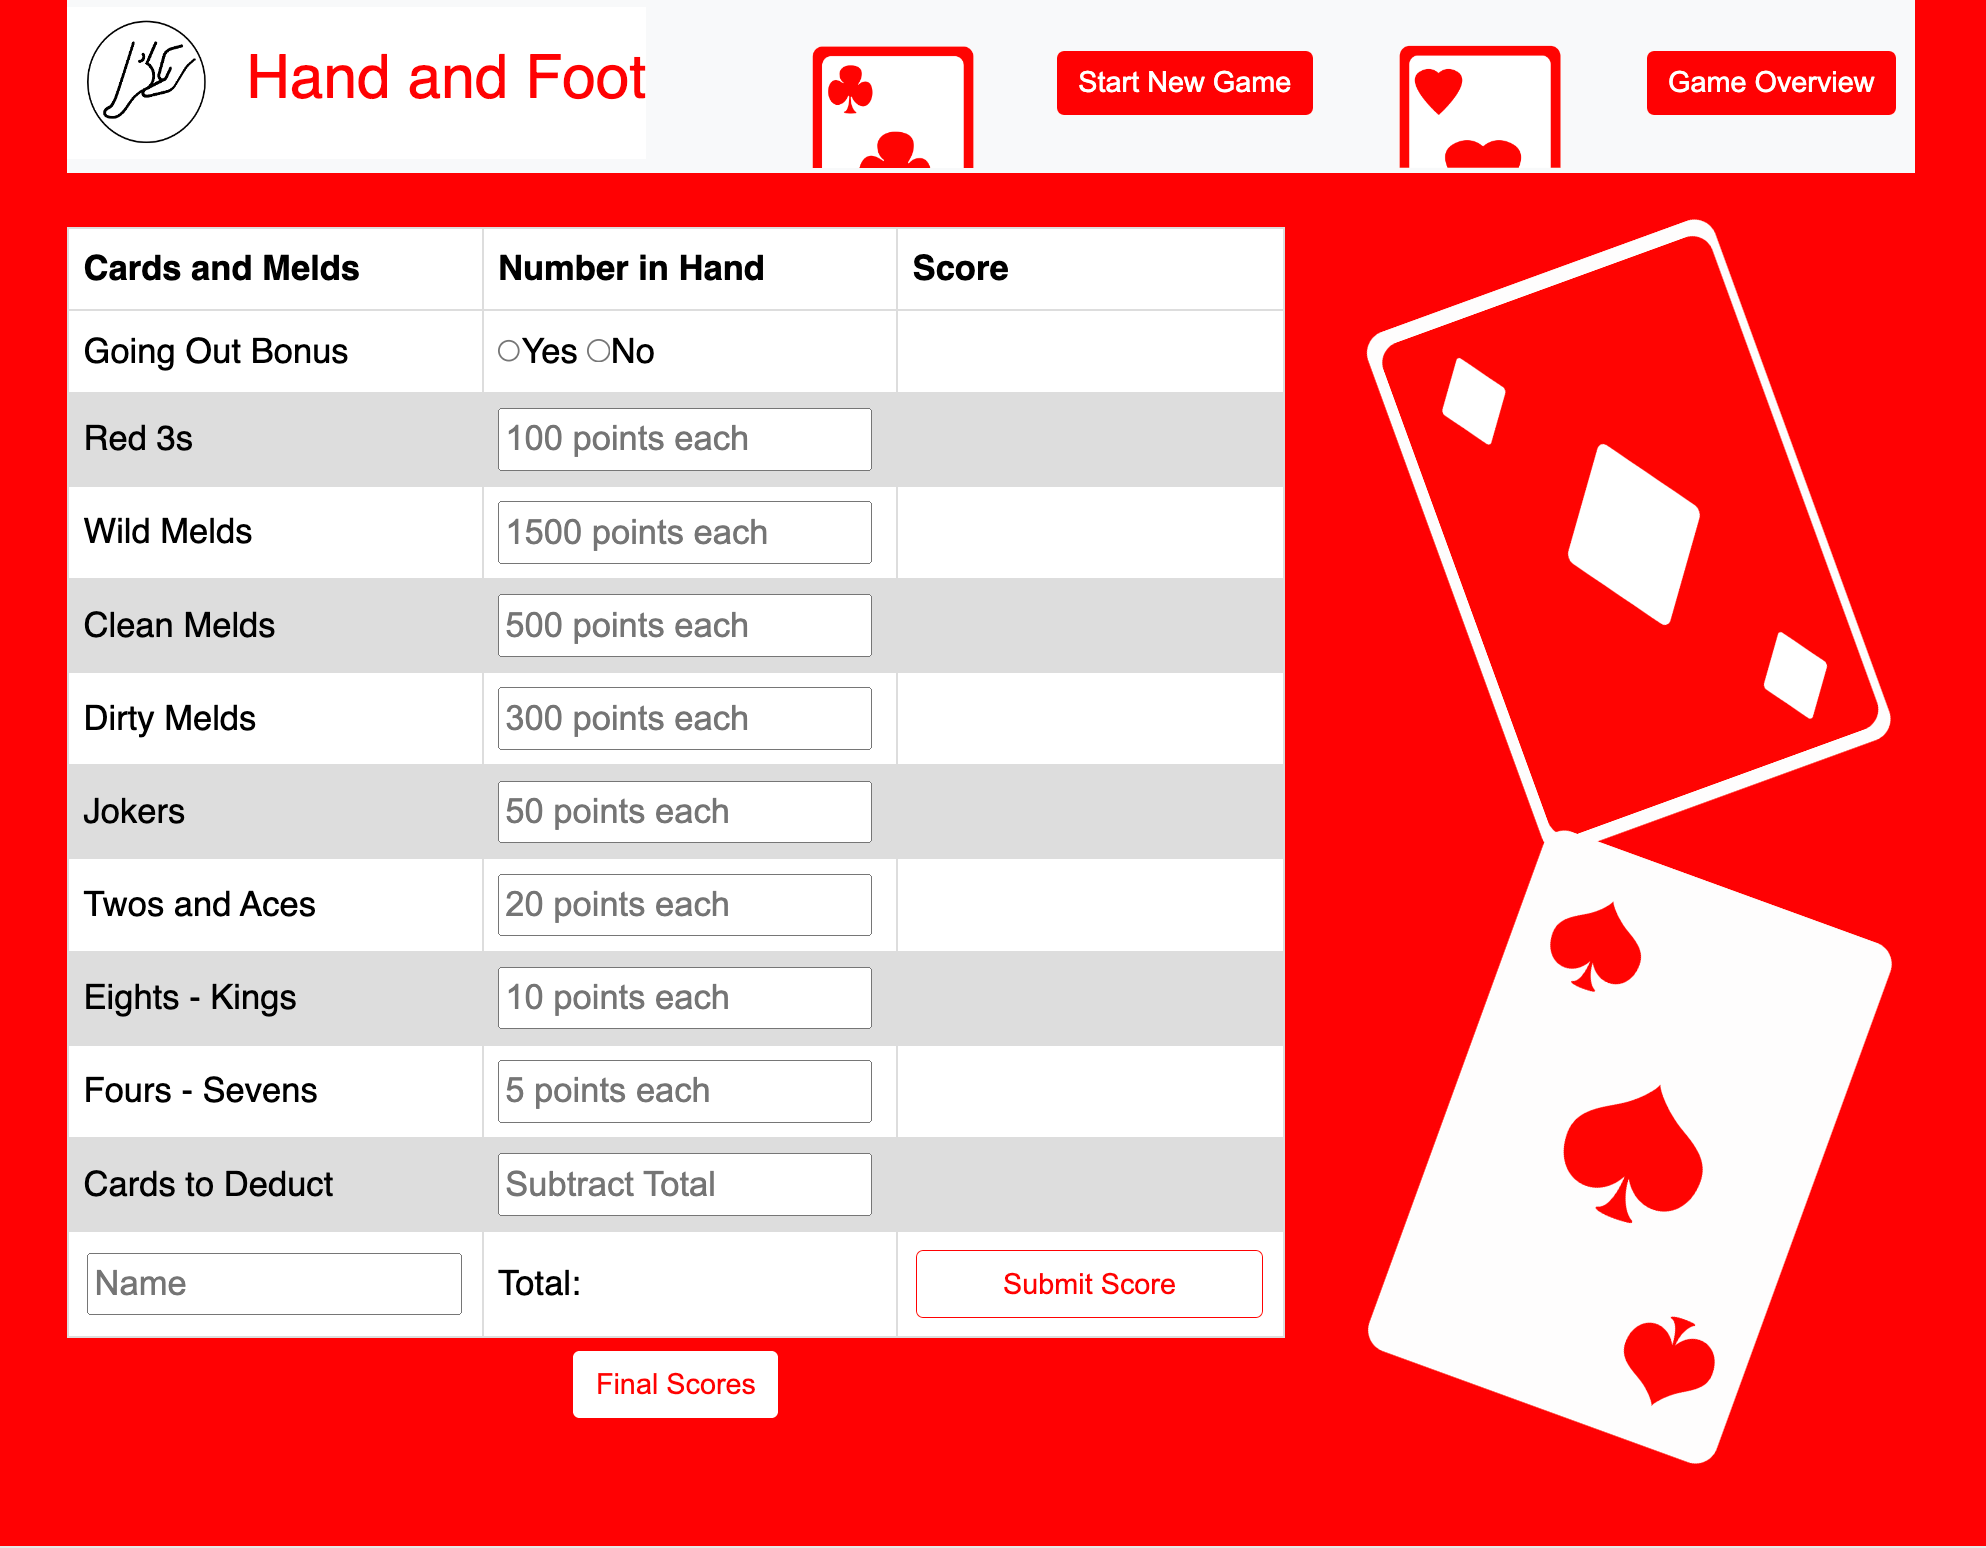
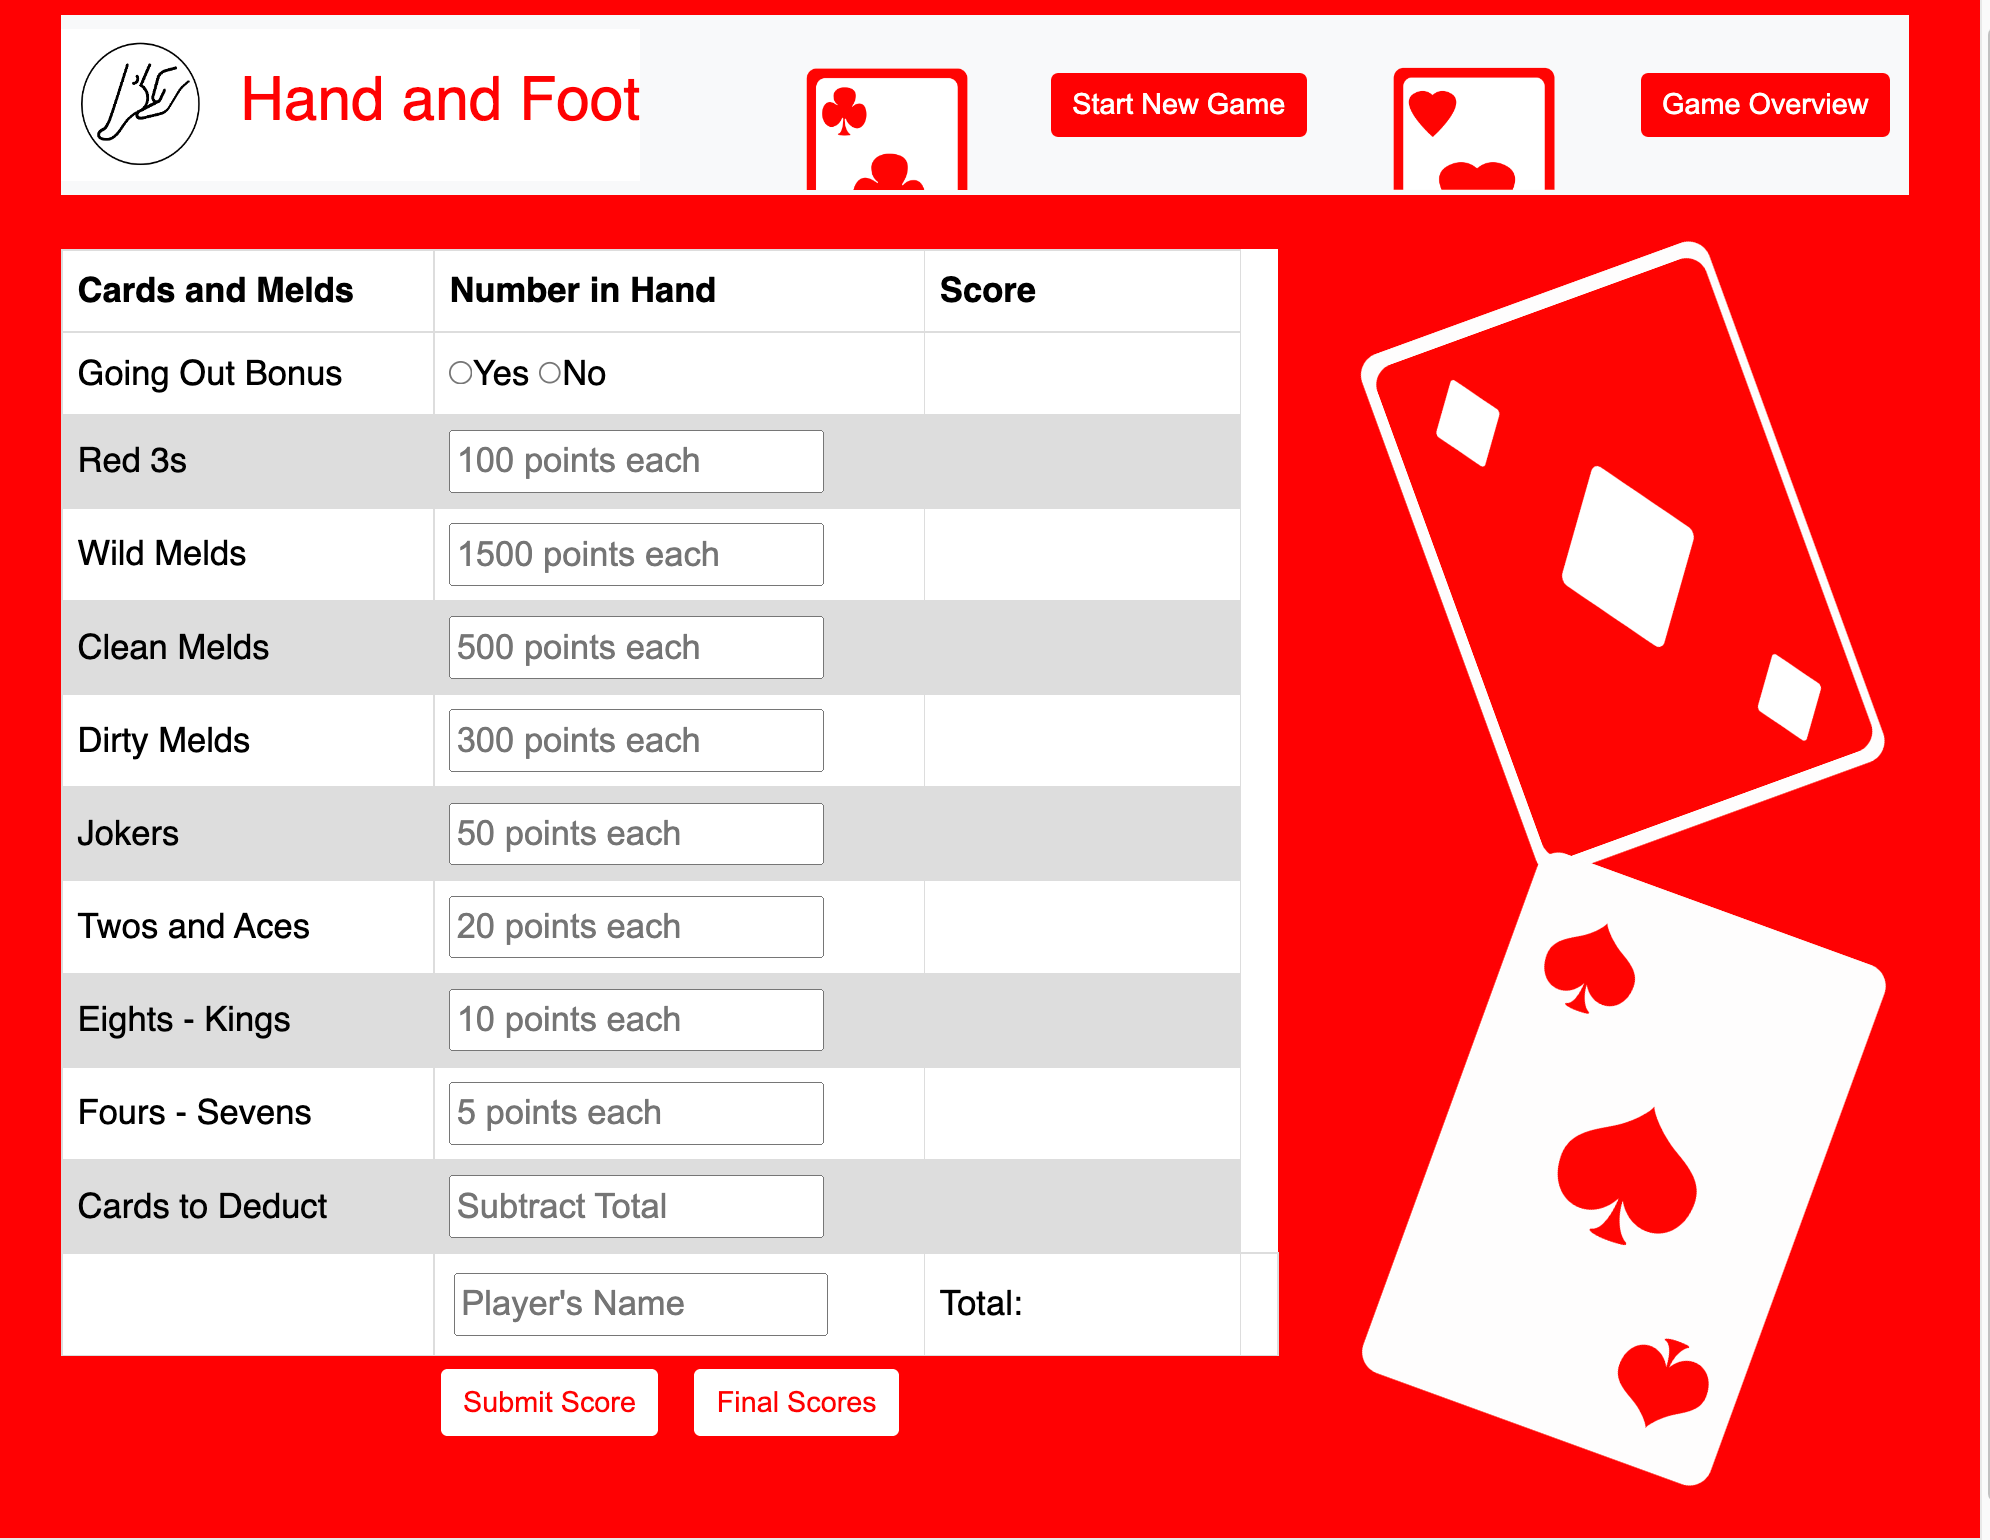
worked on inserting table and sorting

diff --git a/public/index.html b/public/index.html
@@ -35,14 +35,14 @@
 
         <i class="fa fa-bars"></i>
       </a>
-      <img src="/assets/images/club.png" class="aces" alt="ace of clubs" width="140" height="74">
-      <button onclick="deleteItems()" type="button" class="btn btn headerBtn" id="newGame">Start New Game</button>
-      <img src="/assets/images/heart.png" class="aces" alt="ace of hearts" width="140" height="74">
-
       <!-- Button trigger modal -->
       <button type="button" class="btn btn modalBtn headerBtn" data-bs-toggle="modal" data-bs-target="#overviewModal">
         Game Overview
       </button>
+      <img src="/assets/images/club.png" class="aces" alt="ace of clubs" width="140" height="74">
+      <!-- <button onclick="deleteItems()" type="button" class="btn btn headerBtn" id="newGame">Start New Game</button> -->
+      <img src="/assets/images/heart.png" class="aces" alt="ace of hearts" width="140" height="74">
+
 
       <!-- Overview Modal -->
       <div class="modal fade" id="overviewModal" tabindex="-1" aria-labelledby="overviewModalLabel" aria-hidden="true">
@@ -241,7 +241,7 @@
 
     </nav>
     <div class="links nav flex-column d-none">
-      <button type="button" class="btn btn mobileBtn">Start New Game</button><br>
+      <!-- <button type="button" class="btn btn mobileBtn">Start New Game</button><br> -->
       <button type="button" class="btn btn modalBtn mobileBtn" data-bs-toggle="modal" data-bs-target="#overviewModal">
         Game Overview
       </button>
@@ -355,7 +355,7 @@
             <button type="button" class="btn btn-primary buttons" id="submitScore" onclick="getTotal()">Submit Score</button> </button>
 
             <!-- Button trigger modal -->
-            <button type="button" class="btn btn-primary buttons" id="submit" data-bs-toggle="modal" onclick="sortTable()"data-bs-target="#finalScoreModal">
+            <button type="button" class="btn btn-primary buttons" id="submit" data-bs-toggle="modal" onclick="renderGames()" data-bs-target="#finalScoreModal">
               Final Scores
             </button>
           </div>
@@ -369,36 +369,19 @@
                 <div class="modal-header">
                   <h5 class="modal-title" id="finalScoreModalLabel">Final Scores:</h5>
 
-                  <table id="myTable">
-                    <tr>
-                      <th>Player's Name (was ID)</th>
-                      <th>Score (was Name)</th>
-                    </tr>
-                  
-                   
-                  </table>
-
-
-
-
-
-
-
-                  <button type="button" class="btn-close" data-bs-dismiss="modal" aria-label="Close"></button>
                 </div>
                 <div class="modal-body" id="modal-body">
 
 
-
                   <!-- Sort List Test Area -->
+                  <table id="myTable">
+                    <thead>
+                      <th>Player's Name (was ID)</th>
+                      <th>Score (was Name)</th>
+                    </thead>
+                    <tbody id="highscores"></tbody>
 
-                  <ol id="highscores">
-
-                  </ol>
-
-
-
-
+                  </table>
                 </div>
                 <div class="modal-footer">
                   <button type="button" class="btn btn modalBtn" data-bs-dismiss="modal">Close</button>
@@ -431,7 +414,7 @@
   </script>
 
   <!-- db.js -->
-  <script src="db.js"></script>
+  <!-- <script src="db.js"></script> -->
 
   <script src="https://cdn.jsdelivr.net/npm/bootstrap@5.0.2/dist/js/bootstrap.bundle.min.js"></script>
 

diff --git a/public/index.js b/public/index.js
@@ -156,59 +156,44 @@ function storeGame() {
 
   games.push(game);
   localStorage.setItem("games", JSON.stringify(games));
-  renderGames();
-  console.log(game);
+}
+
+function sortScores(a, b) {
+  if (a.score < b.score) {
+    return 1;
+  }
+  if (a.score > b.score) {
+    return -1;
+  }
+  return 0;
 }
 
 function renderGames() {
   games = getLocalStorageGames();
 
+  console.log(games);
+
+  games.sort(sortScores);
+  console.log(games);
   for (var i = 0; i < games.length; i++) {
-    console.log(games[i]);
-    var highScore = document.createElement("td");
-    highScore.textContent = games[i].name + " " + games[i].score;
-    highscores.append(highScore);
+    var scoreRow = document.createElement("tr");
+    var scoreNameCell = document.createElement("td");
+    var scoreTotalCell = document.createElement("td");
+    scoreNameCell.textContent = games[i].name;
+    scoreTotalCell.textContent = games[i].score;
+    scoreRow.append(scoreNameCell);
+    scoreRow.append(scoreTotalCell);
+    highscores.append(scoreRow);
   }
 }
 
-// NEED TO SORT FINAL SCORES ^ AFTER GETTING THE ELEMENTS CREATED AND POPULATED
-function sortTable() {
-  var table, rows, switching, i, x, y, shouldSwitch;
-  table = document.getElementById("myTable");
-  switching = true;
-  /*Make a loop that will continue until
-  no switching has been done:*/
-  while (switching) {
-    //start by saying: no switching is done:
-    switching = false;
-    rows = table.rows;
-    /*Loop through all table rows (except the
-    first, which contains table headers):*/
-    for (i = 1; i < (rows.length - 1); i++) {
-      //start by saying there should be no switching:
-      shouldSwitch = false;
-      /*Get the two elements you want to compare,
-      one from current row and one from the next:*/
-      x = rows[i].getElementsByTagName("TD")[0];
-      y = rows[i + 1].getElementsByTagName("TD")[0];
-      //check if the two rows should switch place:
-      if (Number(x.innerHTML) > Number(y.innerHTML)) {
-        //if so, mark as a switch and break the loop:
-        shouldSwitch = true;
-        break;
-      }
-    }
-    if (shouldSwitch) {
-      /*If a switch has been marked, make the switch
-      and mark that a switch has been done:*/
-      rows[i].parentNode.insertBefore(rows[i + 1], rows[i]);
-      switching = true;
-    }
-  }
+// on page load------CAN I HAVE NEW GAME START ON PAGE LOAD-CLEAR LOCAL STORAGE, AND REMOVE NEW GAME BUTTON?
+function init() {
+  deleteItems()
+  console.log(hello)
 }
 
-// on page load
-function init() {}
+init();
 
 // CREATE NEW GAME - CLEAR LOCAL STORAGE TO START NEW GAME
 function deleteItems() {

diff --git a/public/styles.css b/public/styles.css
@@ -52,6 +52,11 @@ body {
   max-width: fit-content;
 }
 
+.headerBtn,
+.mobileBtn:focus {
+  box-shadow: none;
+}
+
 .decoImages {
   width: 105%;
 }
@@ -155,6 +160,22 @@ tr:nth-child(even) {
   color: black;
   background-color: white;
   border-color: black;
+}
+
+.btn-primary:focus {
+  color: white;
+  background-color: black;
+  border-color: black;
+  box-shadow: none;
+}
+
+.modalBtn {
+  background-color: #fd0303;
+  color: white;
+}
+
+.modalBtn:focus {
+  box-shadow: none;
 }
 
 .accordion-button:not(.collapsed) {

diff --git a/public/db.js b/public/db.js
@@ -27,6 +27,8 @@ request.onerror = function (e) {
 function checkDatabase() {
   console.log("check db invoked");
 
+  console.log(db);
+
   // Open a score on your gameStore db
   let score = db.score(["gameStore"], "readwrite");
 
